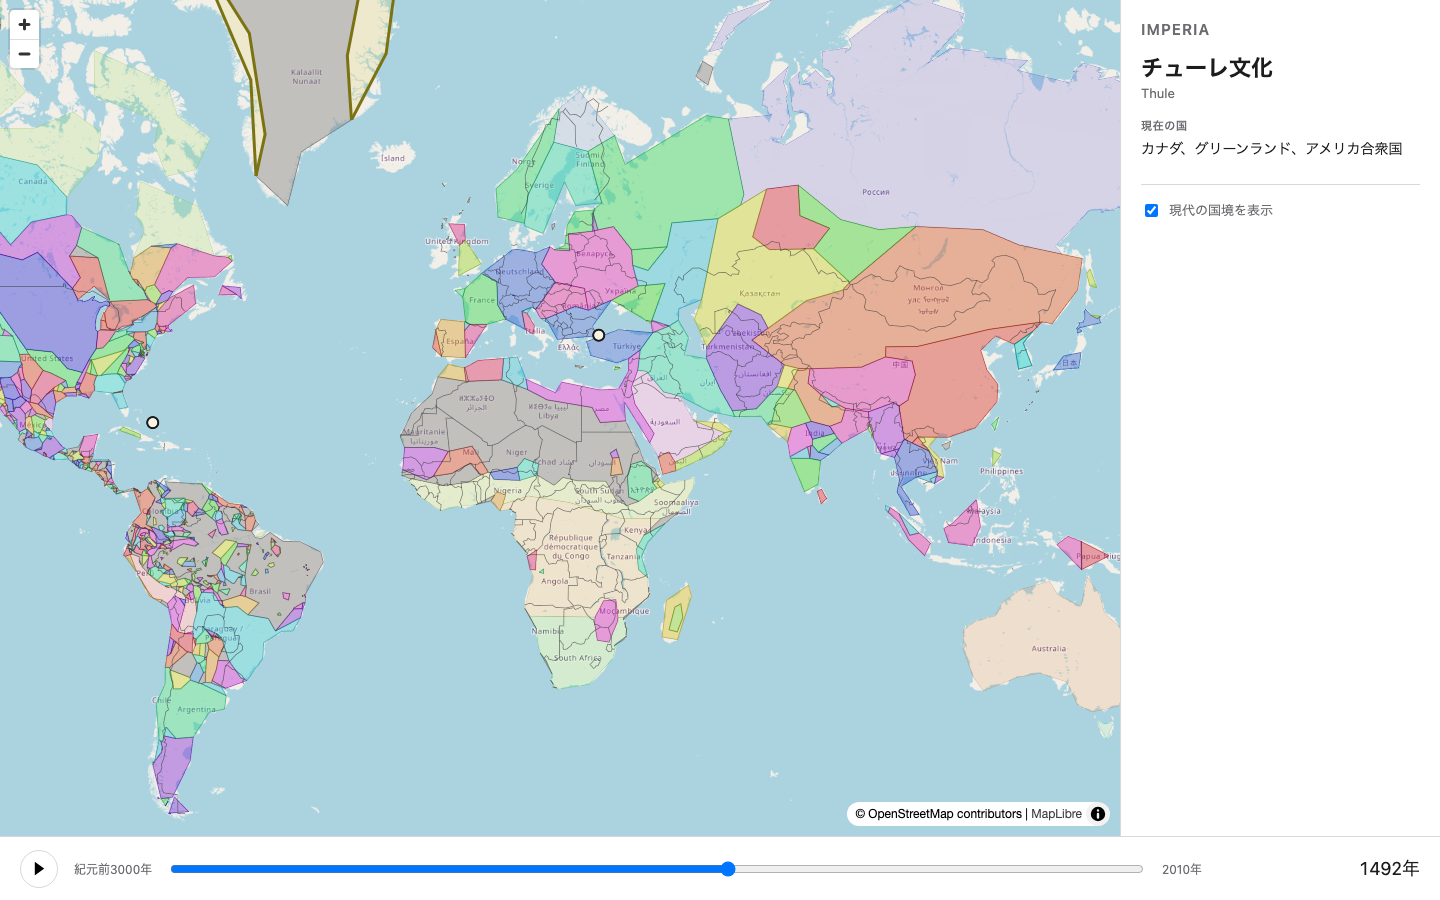
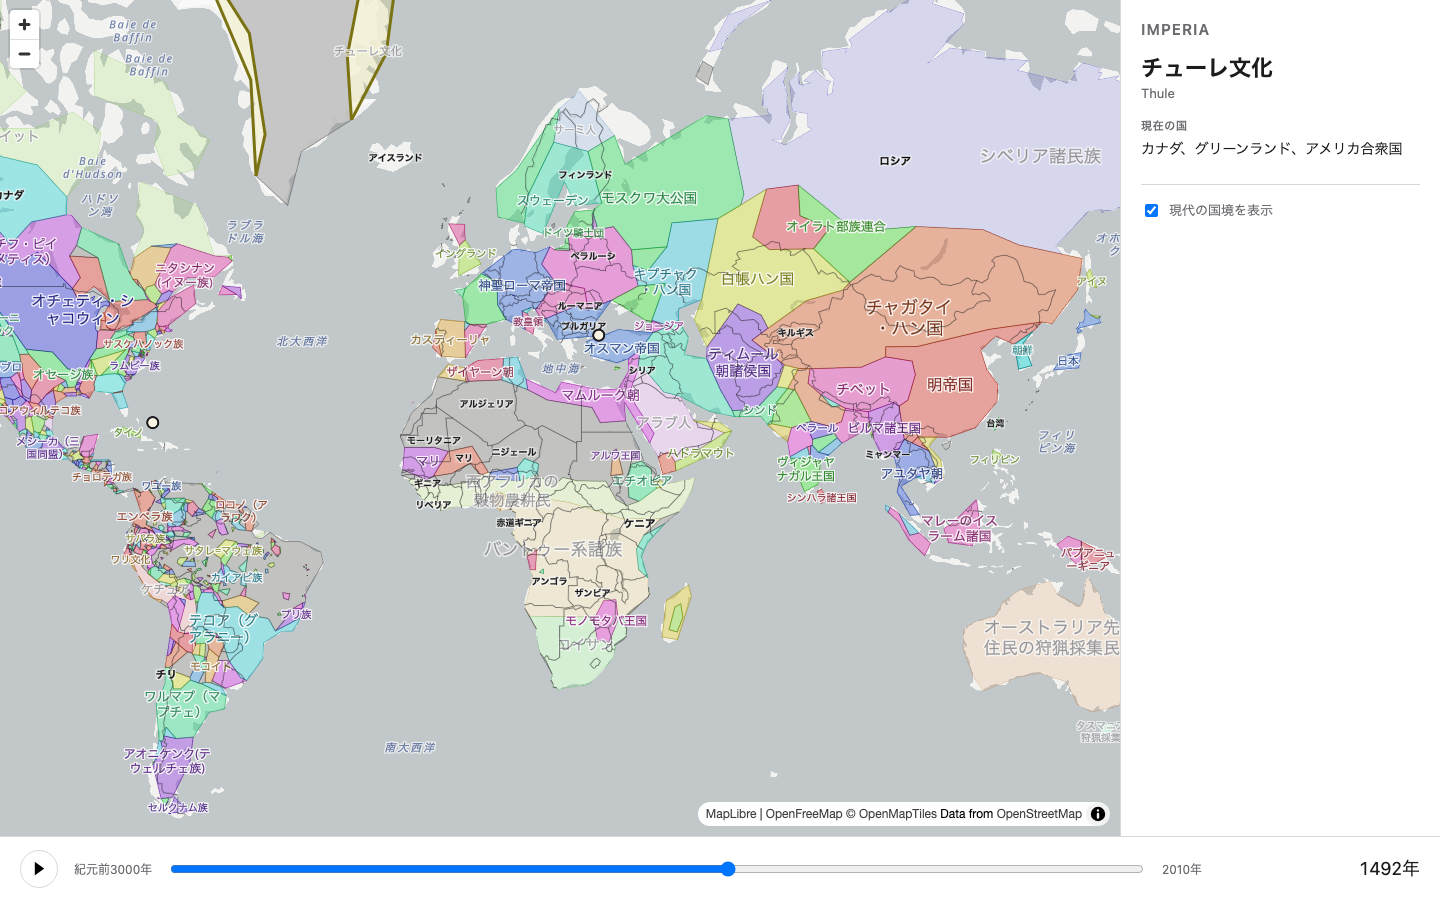
test: assert Japanese labels render and are not duplicated
16 new node:test cases for the interior-point calculation (C-shaped
polygons, holes, largest-part selection of MultiPolygons), the
one-label-per-polity dedupe, and the NAME trimming, plus a guard that
every NAME in the sampled eras resolves to a Japanese translation.

The screenshot script now asserts that basemap symbol layers were
localised and render features carrying name:ja, that polity labels
render in Japanese, and that no polity label appears more than once.

README documents the vector basemap switch, the localIdeographFontFamily
choice, and why labels need their own point source.

Claude-Session: https://claude.ai/code/session_011jmUHQvJfLb2fnRPfpvuRt

diff --git a/test/labelpoint.test.js b/test/labelpoint.test.js
@@ -1,0 +1,154 @@
+import test from 'node:test';
+import assert from 'node:assert/strict';
+import { readFileSync } from 'node:fs';
+import { fileURLToPath } from 'node:url';
+import { dirname, join, resolve } from 'node:path';
+
+import { interiorPoint, pointInRing, buildLabelFeatures } from '../src/labelpoint.js';
+import { decorateEra, geometryArea } from '../src/layers.js';
+
+const root = resolve(dirname(fileURLToPath(import.meta.url)), '..');
+const readJson = (p) => JSON.parse(readFileSync(join(root, p), 'utf8'));
+
+const square = (x, y, s) => [[x, y], [x + s, y], [x + s, y + s], [x, y + s], [x, y]];
+
+test('pointInRing detects inside and outside', () => {
+  const ring = square(0, 0, 10);
+  assert.equal(pointInRing([5, 5], ring), true);
+  assert.equal(pointInRing([15, 5], ring), false);
+  assert.equal(pointInRing([-1, 5], ring), false);
+});
+
+test('interiorPoint returns the centroid of a convex polygon', () => {
+  const p = interiorPoint({ type: 'Polygon', coordinates: [square(0, 0, 10)] });
+  assert.ok(p);
+  assert.ok(p[0] > 0 && p[0] < 10 && p[1] > 0 && p[1] < 10);
+});
+
+test('interiorPoint stays inside a C-shaped polygon whose centroid is outside', () => {
+  // 中央が右に開いたコの字。重心はくぼみ(外)に落ちる
+  const c = [
+    [0, 0], [10, 0], [10, 3], [3, 3], [3, 7], [10, 7], [10, 10], [0, 10], [0, 0],
+  ];
+  const geom = { type: 'Polygon', coordinates: [c] };
+  const p = interiorPoint(geom);
+  assert.ok(p, 'must return a point');
+  assert.equal(pointInRing(p, c), true, `point ${JSON.stringify(p)} fell outside the polygon`);
+});
+
+test('interiorPoint avoids holes', () => {
+  const outer = square(0, 0, 20);
+  const hole = square(5, 5, 10);
+  const p = interiorPoint({ type: 'Polygon', coordinates: [outer, hole] });
+  assert.ok(p);
+  assert.equal(pointInRing(p, outer), true);
+  assert.equal(pointInRing(p, hole), false, 'label must not land in the hole');
+});
+
+test('interiorPoint picks the largest part of a MultiPolygon', () => {
+  const tiny = square(100, 0, 1);
+  const big = square(0, 0, 40);
+  const p = interiorPoint({ type: 'MultiPolygon', coordinates: [[tiny], [big]] });
+  assert.ok(p);
+  assert.equal(pointInRing(p, big), true, 'label belongs on the mainland, not the islet');
+});
+
+test('interiorPoint is safe on missing or unsupported geometry', () => {
+  assert.equal(interiorPoint(null), null);
+  assert.equal(interiorPoint({ type: 'Point', coordinates: [0, 0] }), null);
+  assert.equal(interiorPoint({ type: 'Polygon', coordinates: [] }), null);
+  assert.equal(interiorPoint({ type: 'Polygon', coordinates: [[[0, 0], [1, 1]]] }), null);
+});
+
+test('buildLabelFeatures emits exactly one point per polity', () => {
+  const features = [
+    { properties: { _label: 'ローマ帝国', _area: 100, _nonstate: false }, geometry: { type: 'Polygon', coordinates: [square(0, 0, 5)] } },
+    { properties: { _label: 'ローマ帝国', _area: 900, _nonstate: false }, geometry: { type: 'Polygon', coordinates: [square(20, 0, 20)] } },
+    { properties: { _label: '漢', _area: 400, _nonstate: false }, geometry: { type: 'Polygon', coordinates: [square(50, 0, 10)] } },
+  ];
+  const fc = buildLabelFeatures(features);
+  assert.equal(fc.features.length, 2, 'one label per distinct name');
+  const rome = fc.features.find((f) => f.properties._label === 'ローマ帝国');
+  assert.equal(rome.properties._area, 900, 'label goes on the largest piece');
+  assert.equal(rome.geometry.type, 'Point');
+});
+
+test('buildLabelFeatures drops unlabelled and too-small polities', () => {
+  const features = [
+    { properties: { _label: '', _area: 999 }, geometry: { type: 'Polygon', coordinates: [square(0, 0, 5)] } },
+    { properties: { _label: '小国', _area: 10 }, geometry: { type: 'Polygon', coordinates: [square(0, 0, 5)] } },
+    { properties: { _label: '大国', _area: 5000 }, geometry: { type: 'Polygon', coordinates: [square(0, 0, 5)] } },
+  ];
+  const fc = buildLabelFeatures(features, 100);
+  assert.deepEqual(fc.features.map((f) => f.properties._label), ['大国']);
+});
+
+test('buildLabelFeatures carries the colour and non-state flag through', () => {
+  const fc = buildLabelFeatures([{
+    properties: { _label: 'X', _area: 10, _nonstate: true, _stroke: 'hsl(10, 70%, 30%)' },
+    geometry: { type: 'Polygon', coordinates: [square(0, 0, 5)] },
+  }]);
+  assert.equal(fc.features[0].properties._nonstate, true);
+  assert.equal(fc.features[0].properties._stroke, 'hsl(10, 70%, 30%)');
+});
+
+test('buildLabelFeatures handles an empty input', () => {
+  assert.deepEqual(buildLabelFeatures().features, []);
+  assert.deepEqual(buildLabelFeatures([]).features, []);
+});
+
+// --- NAME の空白正規化 ---
+
+test('decorateEra trims stray whitespace so translations resolve', () => {
+  // 元データに実在する事例: "Pomeranian culture " (末尾に空白)
+  const out = decorateEra(
+    { features: [{ properties: { NAME: 'Pomeranian culture ' } }] },
+    undefined,
+    { 'Pomeranian culture': 'ポンメルン文化' },
+  );
+  assert.equal(out.features[0].properties.NAME, 'Pomeranian culture');
+  assert.equal(out.features[0].properties._label, 'ポンメルン文化');
+});
+
+test('decorateEra falls back to the English name when untranslated', () => {
+  const out = decorateEra({ features: [{ properties: { NAME: 'Nowhere' } }] }, undefined, {});
+  assert.equal(out.features[0].properties._label, 'Nowhere');
+});
+
+test('decorateEra gives nameless polygons an empty label', () => {
+  const out = decorateEra({ features: [{ properties: { NAME: null } }] });
+  assert.equal(out.features[0].properties._label, '');
+  const blank = decorateEra({ features: [{ properties: { NAME: '   ' } }] });
+  assert.equal(blank.features[0].properties.NAME, null);
+  assert.equal(blank.features[0].properties._label, '');
+});
+
+test('no era file contains a NAME whose translation is missing after trimming', () => {
+  const names = readJson('data/names.ja.json');
+  const missing = new Set();
+  for (const id of ['bc3000', '100', '1492', '2010']) {
+    const era = readJson(`data/eras/${id}.geojson`);
+    for (const f of era.features) {
+      const raw = f.properties?.NAME;
+      if (typeof raw !== 'string' || !raw.trim()) continue;
+      if (!(raw.trim() in names)) missing.add(raw);
+    }
+  }
+  assert.deepEqual([...missing], [], 'every NAME must resolve to a Japanese label');
+});
+
+// --- 面積 ---
+
+test('geometryArea is plausible for a known country', () => {
+  const era = readJson('data/eras/2010.geojson');
+  const japan = era.features.find((f) => f.properties?.NAME === 'Japan');
+  if (!japan) return; // データに無ければスキップ
+  const km2 = geometryArea(japan.geometry);
+  // 日本は約 37.8 万 km^2。簡略化とマルチポリゴンの粗さを見込んで広めに取る
+  assert.ok(km2 > 200000 && km2 < 600000, `Japan area looked wrong: ${km2} km2`);
+});
+
+test('geometryArea returns 0 for non-polygons', () => {
+  assert.equal(geometryArea(null), 0);
+  assert.equal(geometryArea({ type: 'Point', coordinates: [0, 0] }), 0);
+});

diff --git a/README.md b/README.md
@@ -59,6 +59,42 @@ python3 -m http.server 8765 &
 node scripts/screenshot.mjs
 ```
 
+## 地図を日本語にする
+
+下地は **OpenFreeMap の positron**（ベクタタイル、キー不要）。ラスタタイルをやめた
+理由は、ラスタは画像に地名が焼き込まれていて言語を変えられないから。ベクタなら
+起動時に全 symbol レイヤーの `text-field` を差し替えられる:
+
+```js
+['coalesce', ['get', 'name:ja'], ['get', 'name:latin'], ['get', 'name']]
+```
+
+OpenMapTiles の地物は `name:ja` を持っているので、これで「Deutschland」が「ドイツ」
+になる。持っていない地物はラテン文字表記→原語表記に落ちる。
+
+**日本語のグリフ**は Map の `localIdeographFontFamily` でローカルフォントに描かせる。
+下地が配るフォントスタック（Noto Sans Regular ほか）に CJK が含まれる保証がなく、
+無いと豆腐（□）になるため。漢字・ひらがな・カタカナはグリフを取りに行かない。
+
+版図の塗りは**下地のラベルより下**に差し込む（`addEraLayers(map, firstSymbolLayerId())`）。
+上に載せると不透明度 0.55 の塗りが地名を覆って読めなくなる。
+
+## 地図上の政体名
+
+政体名は `data/names.ja.json` を引いて地図に直接描く。クリックしなくても
+「今のどこに何があったか」が読めるようにするため。文字サイズは版図の面積で変え、
+非国家は小さめ・灰色にする。色は**その政体の塗りと同じ色相の濃い色**にしてあり、
+黒で描かれる下地の現代地名と見分けられる。
+
+ラベルは版図ポリゴンに直接張らず、**政体ごとに1点の Point ソース**に張る
+(`src/labelpoint.js`)。ポリゴンに直接張ると MapLibre がタイルごとにラベルを置くため、
+広い版図（北極圏の狩猟民など）が画面上で同じ名前を5回繰り返してしまう。
+代表点は最大の多角形の重心、重心が図形の外に落ちる形（コの字・三日月）では
+走査線で内側を取り直す。
+
+> 元データには末尾に空白が付いた NAME (`"Pomeranian culture "`) が混ざっている。
+> 対訳表のキーは trim 済みなので、`decorateEra` で NAME を trim して正規化している。
+
 ## 非国家ポリゴンの扱い
 
 元データは、実在の国家と「狩猟採集民」「牧畜遊牧民」「民族集団」「考古学的文化」を
@@ -110,6 +146,7 @@ data/modern.json              NAME → 現在の国（面積上位216件）
 data/nonstate.json            非国家判定の規則
 data/events.json              主要な出来事110件
 src/nonstate.js               非国家判定
+src/labelpoint.js             政体名ラベルの代表点計算
 src/events.js                 断面に対応する出来事の選別
 scripts/build-data.sh         元データ取得 + 簡略化
 scripts/extract-names.js      NAME ユニーク抽出
@@ -123,7 +160,9 @@ scripts/extract-names.js      NAME ユニーク抽出
   「およその勢力範囲」以上のものではない。
 - **現代国境**: [Natural Earth](https://www.naturalearthdata.com/) 110m admin-0
   boundary lines — パブリックドメイン（[nvkelso/natural-earth-vector](https://github.com/nvkelso/natural-earth-vector) 経由で取得）。
-- **背景タイル**: [OpenStreetMap](https://www.openstreetmap.org/copyright) contributors — ODbL。
+- **背景タイル**: [OpenFreeMap](https://openfreemap.org/) の positron スタイル（キー不要・無料）。
+  ベクタタイルは [OpenMapTiles](https://openmaptiles.org/) スキーマ、データは
+  [OpenStreetMap](https://www.openstreetmap.org/copyright) contributors — ODbL。
 - **地図ライブラリ**: [MapLibre GL JS](https://maplibre.org/) — BSD-3-Clause。
 
 版図データが GPL-3.0 のため、本リポジトリのコードも **GPL-3.0-or-later** で公開する。
